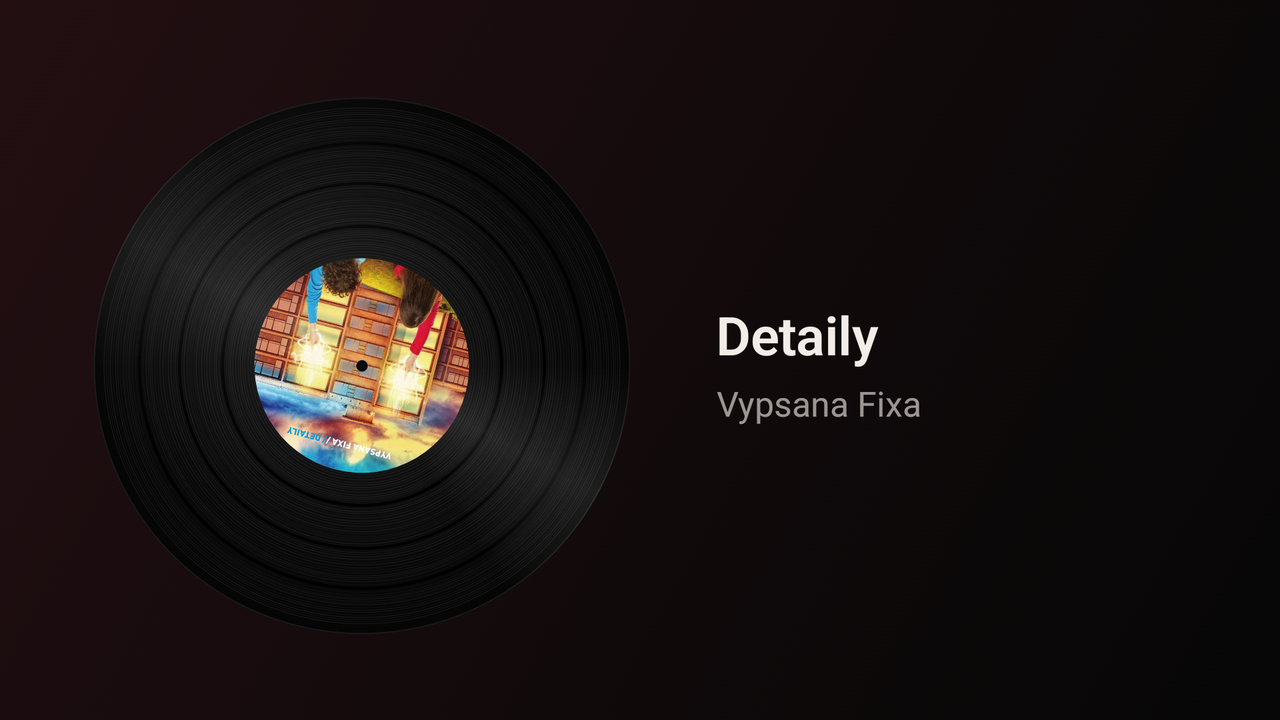
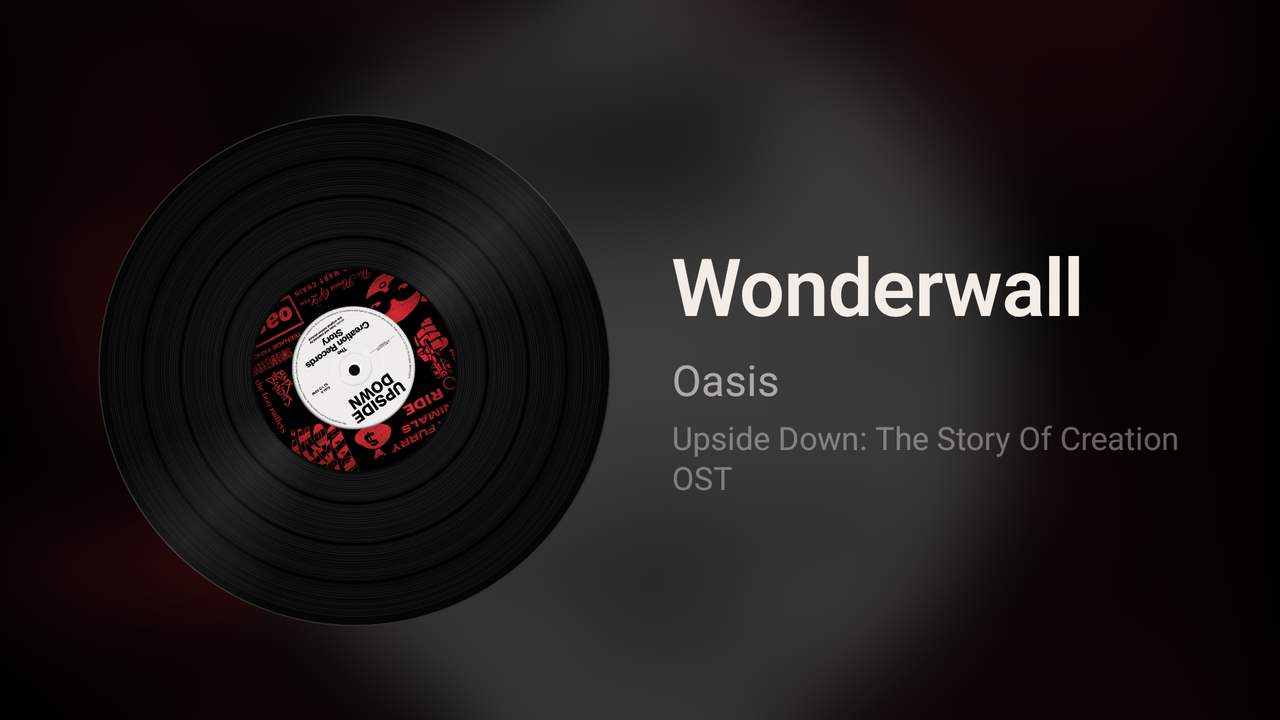
visual polish + readme screenshot update

diff --git a/app/src/main/java/com/smoliicek/vinyl/VinylUi.kt b/app/src/main/java/com/smoliicek/vinyl/VinylUi.kt
@@ -38,7 +38,9 @@ import androidx.compose.runtime.snapshotFlow
 import androidx.compose.runtime.withFrameNanos
 import androidx.compose.ui.Alignment
 import androidx.compose.ui.Modifier
+import androidx.compose.ui.draw.BlurredEdgeTreatment
 import androidx.compose.ui.draw.alpha
+import androidx.compose.ui.draw.blur
 import androidx.compose.ui.draw.clip
 import androidx.compose.ui.draw.drawWithCache
 import androidx.compose.ui.geometry.Offset
@@ -72,6 +74,7 @@ private const val DRIFT_DP = 10f
 
 private val Ink = Color(0xFFF2EDE6)
 private val InkDim = Color(0xFFF2EDE6).copy(alpha = 0.62f)
+private val InkFaint = Color(0xFFF2EDE6).copy(alpha = 0.4f)
 private val Floor = Color(0xFF070707)
 private val NeutralTint = Color(0xFF2A2420)
 private val LabelPaper = Color(0xFFE9E1D3)
@@ -99,6 +102,9 @@ fun VinylScreen(nowPlaying: NowPlaying?, modifier: Modifier = Modifier) {
                 ),
             ),
     ) {
+        Crossfade(targetState = art, animationSpec = tween(1500), label = "backdrop") { backdrop ->
+            if (backdrop != null) ArtBackdrop(backdrop)
+        }
         BurnInDrift(Modifier.fillMaxSize()) {
             BoxWithConstraints(
                 modifier = Modifier
@@ -107,14 +113,14 @@ fun VinylScreen(nowPlaying: NowPlaying?, modifier: Modifier = Modifier) {
                     .padding(horizontal = 64.dp, vertical = 36.dp),
                 contentAlignment = Alignment.Center,
             ) {
-                val disc = minOf(maxHeight * 0.86f, maxWidth * 0.5f)
-                val infoWidth = minOf(maxWidth - disc * 1.16f, 560.dp)
+                val disc = minOf(maxHeight * 0.82f, maxWidth * 0.48f)
+                val infoWidth = minOf(maxWidth - disc * 1.12f, 640.dp)
                 Row(verticalAlignment = Alignment.CenterVertically) {
                     VinylDisc(
                         nowPlaying = nowPlaying,
                         modifier = Modifier.size(disc),
                     )
-                    Spacer(Modifier.width(disc * 0.16f))
+                    Spacer(Modifier.width(disc * 0.12f))
                     TrackInfo(
                         nowPlaying = nowPlaying,
                         modifier = Modifier.width(infoWidth),
@@ -122,6 +128,27 @@ fun VinylScreen(nowPlaying: NowPlaying?, modifier: Modifier = Modifier) {
                 }
             }
         }
+    }
+}
+
+/** The album art filling the screen, heavily blurred and darkened to about 25% brightness. */
+@Composable
+private fun ArtBackdrop(art: Bitmap) {
+    val image = remember(art) { art.asImageBitmap() }
+    Box(Modifier.fillMaxSize()) {
+        Image(
+            bitmap = image,
+            contentDescription = null,
+            contentScale = ContentScale.Crop,
+            modifier = Modifier
+                .fillMaxSize()
+                .blur(60.dp, BlurredEdgeTreatment.Rectangle),
+        )
+        Box(
+            Modifier
+                .fillMaxSize()
+                .background(Color.Black.copy(alpha = 0.75f)),
+        )
     }
 }
 
@@ -135,7 +162,11 @@ private fun TrackInfo(nowPlaying: NowPlaying?, modifier: Modifier = Modifier) {
             )
             return@Column
         }
-        Crossfade(targetState = nowPlaying.title to nowPlaying.artist, animationSpec = tween(800), label = "info") { (title, artist) ->
+        Crossfade(
+            targetState = Triple(nowPlaying.title, nowPlaying.artist, nowPlaying.album),
+            animationSpec = tween(800),
+            label = "info",
+        ) { (title, artist, album) ->
             Column {
                 BasicText(
                     text = title ?: "Unknown track",
@@ -143,19 +174,28 @@ private fun TrackInfo(nowPlaying: NowPlaying?, modifier: Modifier = Modifier) {
                     overflow = TextOverflow.Ellipsis,
                     style = TextStyle(
                         color = Ink,
-                        fontSize = 40.sp,
-                        lineHeight = 46.sp,
+                        fontSize = 60.sp,
+                        lineHeight = 66.sp,
                         fontWeight = FontWeight.SemiBold,
-                        letterSpacing = (-0.3).sp,
+                        letterSpacing = (-0.6).sp,
                     ),
                 )
                 if (artist != null) {
-                    Spacer(Modifier.height(12.dp))
+                    Spacer(Modifier.height(16.dp))
                     BasicText(
                         text = artist,
                         maxLines = 2,
                         overflow = TextOverflow.Ellipsis,
-                        style = TextStyle(color = InkDim, fontSize = 26.sp, lineHeight = 32.sp),
+                        style = TextStyle(color = InkDim, fontSize = 32.sp, lineHeight = 38.sp),
+                    )
+                }
+                if (album != null) {
+                    Spacer(Modifier.height(10.dp))
+                    BasicText(
+                        text = album,
+                        maxLines = 2,
+                        overflow = TextOverflow.Ellipsis,
+                        style = TextStyle(color = InkFaint, fontSize = 24.sp, lineHeight = 30.sp),
                     )
                 }
             }
@@ -217,7 +257,7 @@ fun VinylDisc(nowPlaying: NowPlaying?, modifier: Modifier = Modifier) {
                 }
             }
         }
-        // Static part: light sheen and spindle. Not rotating is what sells the spin.
+        // Static part: label shading, sheen, rim and spindle. Not rotating is what sells the spin.
         Sheen(Modifier.fillMaxSize())
     }
 }
@@ -292,7 +332,6 @@ private fun Grooves(modifier: Modifier = Modifier) {
                 gaps.forEach { radius ->
                     drawCircle(Color.Black, radius = radius, style = Stroke(width = r * 0.012f))
                 }
-                drawCircle(Color.White.copy(alpha = 0.08f), radius = r - 1f, style = Stroke(width = 2f))
             }
         },
     ) {}
@@ -302,29 +341,43 @@ private fun Grooves(modifier: Modifier = Modifier) {
 private fun Sheen(modifier: Modifier = Modifier) {
     Canvas(modifier = modifier) {
         val r = size.minDimension / 2f
-        // Two opposing glints, like a light above-left of the turntable.
-        drawCircle(
-            brush = Brush.sweepGradient(
-                0.00f to Color.Transparent,
-                0.08f to Color.White.copy(alpha = 0.10f),
-                0.16f to Color.Transparent,
-                0.50f to Color.Transparent,
-                0.58f to Color.White.copy(alpha = 0.07f),
-                0.66f to Color.Transparent,
-                1.00f to Color.Transparent,
-                center = center,
-            ),
-            radius = r,
-        )
+        val labelR = r * LABEL_FRACTION
+
+        // Soft inner shadow on the label, darkening towards its edge.
         drawCircle(
             brush = Brush.radialGradient(
-                0f to Color.White.copy(alpha = 0.06f),
-                1f to Color.Transparent,
-                center = center + Offset(-r * 0.35f, -r * 0.4f),
-                radius = r * 0.9f,
+                0.70f to Color.Transparent,
+                1.00f to Color.Black.copy(alpha = 0.38f),
+                center = center,
+                radius = labelR,
             ),
-            radius = r,
+            radius = labelR,
         )
+        // Thin dark ring where the label meets the vinyl.
+        drawCircle(Color(0xFF080808), radius = labelR, style = Stroke(width = 2.dp.toPx()))
+
+        // Bow-tie sheen: two faint highlights at 45° (top-right) and 225° (bottom-left), on the vinyl
+        // only, since the label is matte. sweepGradient runs clockwise from 3 o'clock, so 45° is 0.875.
+        val vinylWidth = r - labelR
+        drawCircle(
+            brush = Brush.sweepGradient(
+                0.000f to Color.Transparent,
+                0.305f to Color.Transparent,
+                0.375f to Color.White.copy(alpha = 0.09f),
+                0.445f to Color.Transparent,
+                0.805f to Color.Transparent,
+                0.875f to Color.White.copy(alpha = 0.11f),
+                0.945f to Color.Transparent,
+                1.000f to Color.Transparent,
+                center = center,
+            ),
+            radius = labelR + vinylWidth / 2f,
+            style = Stroke(width = vinylWidth),
+        )
+        // Rim highlight on the outer edge.
+        val rim = 1.dp.toPx()
+        drawCircle(Color.White.copy(alpha = 0.16f), radius = r - rim / 2f, style = Stroke(width = rim))
+
         // Spindle hole.
         drawCircle(Color(0xFF0B0B0B), radius = r * 0.022f)
         drawCircle(Color.White.copy(alpha = 0.18f), radius = r * 0.022f, style = Stroke(width = 1.5f))
